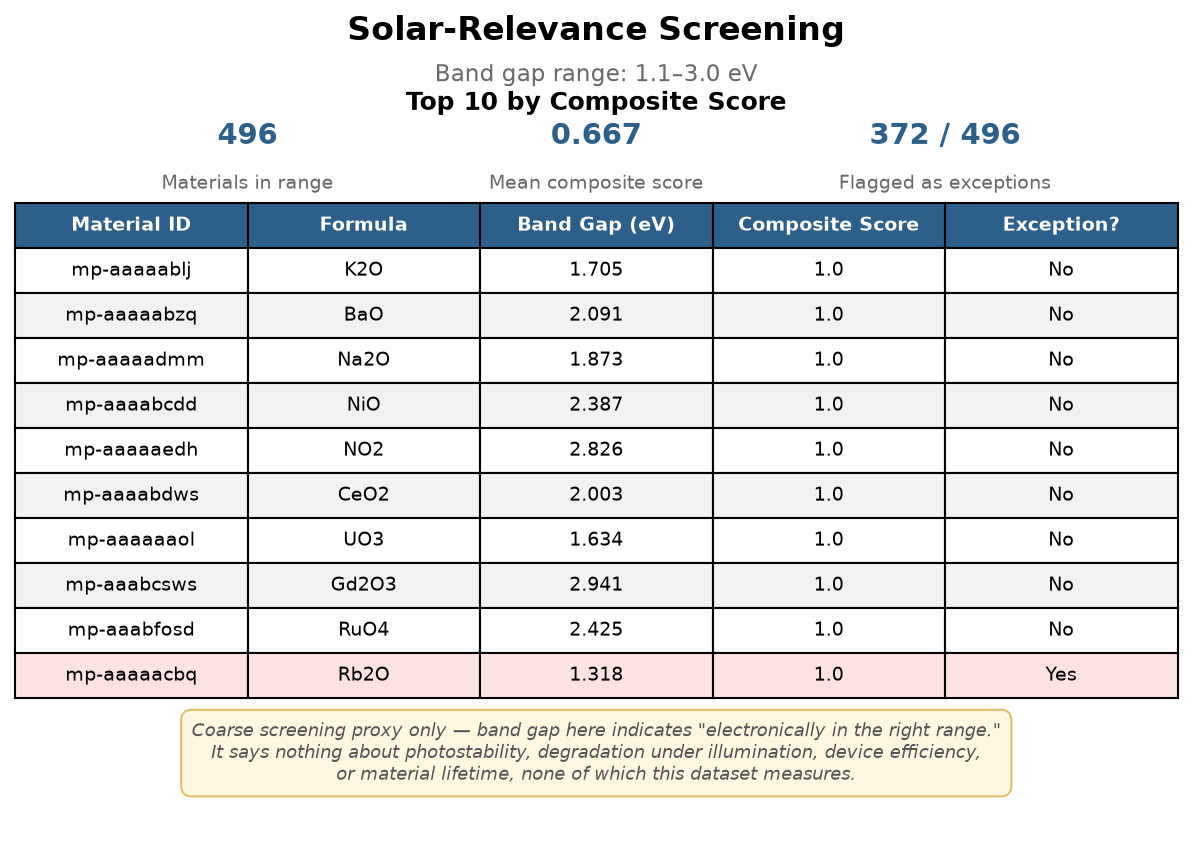
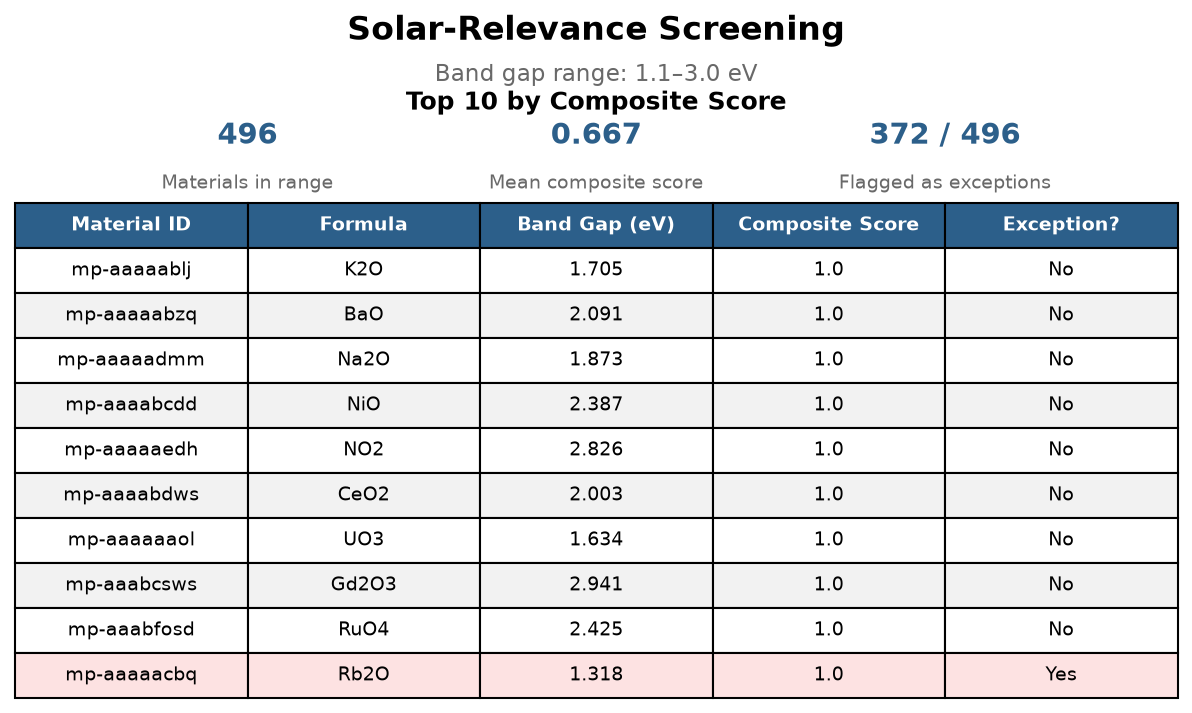
updated solar file and png

diff --git a/solar_filter.py b/solar_filter.py
@@ -77,7 +77,7 @@ def save_screening_report(merged: pd.DataFrame, min_gap: float, max_gap: float, 
     stat_labels = ["Materials in range", "Mean composite score", "Flagged as exceptions"]
     stat_values = [f"{num_screened}", f"{mean_score:.3f}", f"{num_exceptions} / {num_screened}"]
     for i, (label, value) in enumerate(zip(stat_labels, stat_values)):
-        x = 0.2 + i * 0. # spaces the 3 cards out evenly left to right (0.2, 0.5, 0.8)
+        x = 0.2 + i * 0.3 # spaces the 3 cards out evenly left to right (0.2, 0.5, 0.8)
         header_ax.text(x, 0.3, value, ha="center", fontsize=14, fontweight="bold", color="#2c5f8a", transform=header_ax.transAxes)
         header_ax.text(x, 0.05, label, ha="center", fontsize=9, color="dimgrey", transform=header_ax.transAxes)
 
@@ -111,20 +111,6 @@ def save_screening_report(merged: pd.DataFrame, min_gap: float, max_gap: float, 
                 cell.set_facecolor("#fde2e2")
             elif row % 2 == 0:
                 cell.set_facecolor("#f2f2f2")
-
-    # bottom stuff
-    note_ax = fig.add_subplot(gs[2])
-    note_ax.axis("off")
-    note_ax.text(
-        0.5, 0.6,
-        "Coarse screening proxy only — band gap here indicates \"electronically in the right range.\"\n"
-        "It says nothing about photostability, degradation under illumination, device efficiency,\n"
-        "or material lifetime, none of which this dataset measures.",
-        ha="center", va="center", fontsize=8.5, style="italic", color="#555555",
-        transform=note_ax.transAxes,
-        bbox=dict(boxstyle="round,pad=0.6", facecolor="#fff8e1", edgecolor="#e0c068"),
-        #this whole part feels more like css than python idontlikeit much
-    )
 
     plt.savefig(save_path, dpi=150, bbox_inches="tight", facecolor="white")
     plt.close(fig) #once again, thank god this exists.